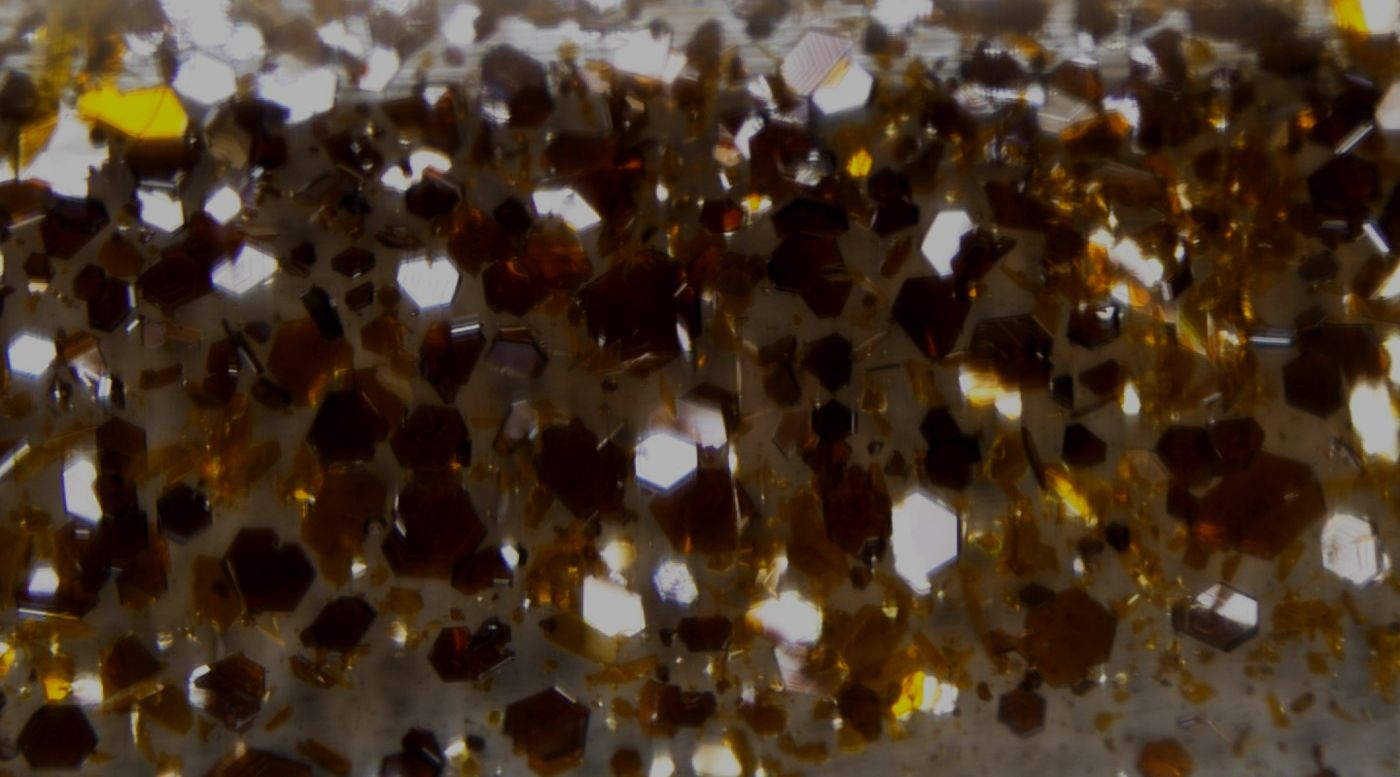
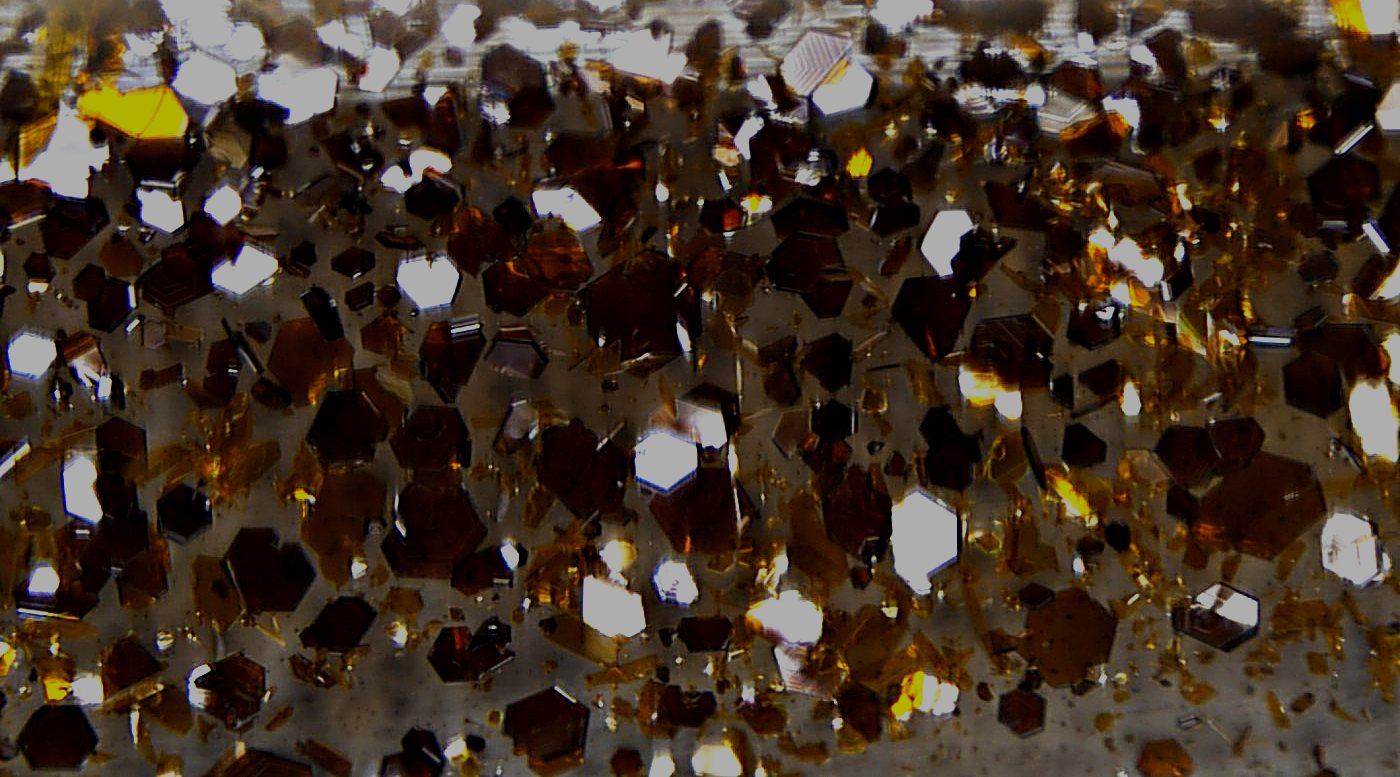
crystal and text

diff --git a/src/assets/css/site.css b/src/assets/css/site.css
@@ -113,8 +113,11 @@ sub { font-size: 0.72em; line-height: 0; }
   background:
     linear-gradient(to bottom, rgba(15,17,19,0.55) 0%, rgba(15,17,19,0.15) 30%, rgba(15,17,19,0.15) 70%, rgba(15,17,19,0.95) 100%),
     radial-gradient(ellipse 55% 60% at 50% 50%, rgba(15,17,19,0.72) 0%, rgba(15,17,19,0.35) 60%, rgba(15,17,19,0.05) 100%); }
-.hero-inner { position: relative; z-index: 1; padding: 112px var(--gutter) 104px; display: flex; flex-direction: column; align-items: center; gap: 28px; max-width: 980px; }
-.hero h1 { font-size: clamp(40px, 5.2vw, 72px); line-height: 1.02; letter-spacing: -0.035em; }
+.hero-inner { position: relative; z-index: 1; padding: 112px var(--gutter) 104px; display: flex; flex-direction: column; align-items: center; gap: 28px; max-width: 1200px; }
+/* Sized so "Exploring the Periodic Table" always fits on one line (~15.7em wide in Space Grotesk). */
+.hero h1 { font-size: clamp(30px, 5.4vw, 68px); line-height: 1.04; letter-spacing: -0.035em; }
+.hero h1 .h-lead, .hero h1 .h-sub { white-space: nowrap; }
+.hero h1 .ph { display: none; }
 .hero h1 .h-sub { color: var(--text); }
 .hero h1 .h-lead { color: var(--muted); font-weight: 500; }
 .hero p { font-size: clamp(17px, 1.5vw, 22px); line-height: 1.45; color: var(--muted); max-width: 640px; }
@@ -126,6 +129,11 @@ sub { font-size: 0.72em; line-height: 0; }
   .hero-inner { padding: 72px var(--gutter) 56px; }
   .hero-actions .btn { flex: 1 1 100%; }
   .hero-caption { display: none; }
+}
+@media (max-width: 700px) {
+  /* phones: four short lines instead of two long ones */
+  .hero h1 { font-size: clamp(34px, 9.6vw, 44px); }
+  .hero h1 .ph { display: inline; }
 }
 
 /* --- about band ----------------------------------------------------------- */
